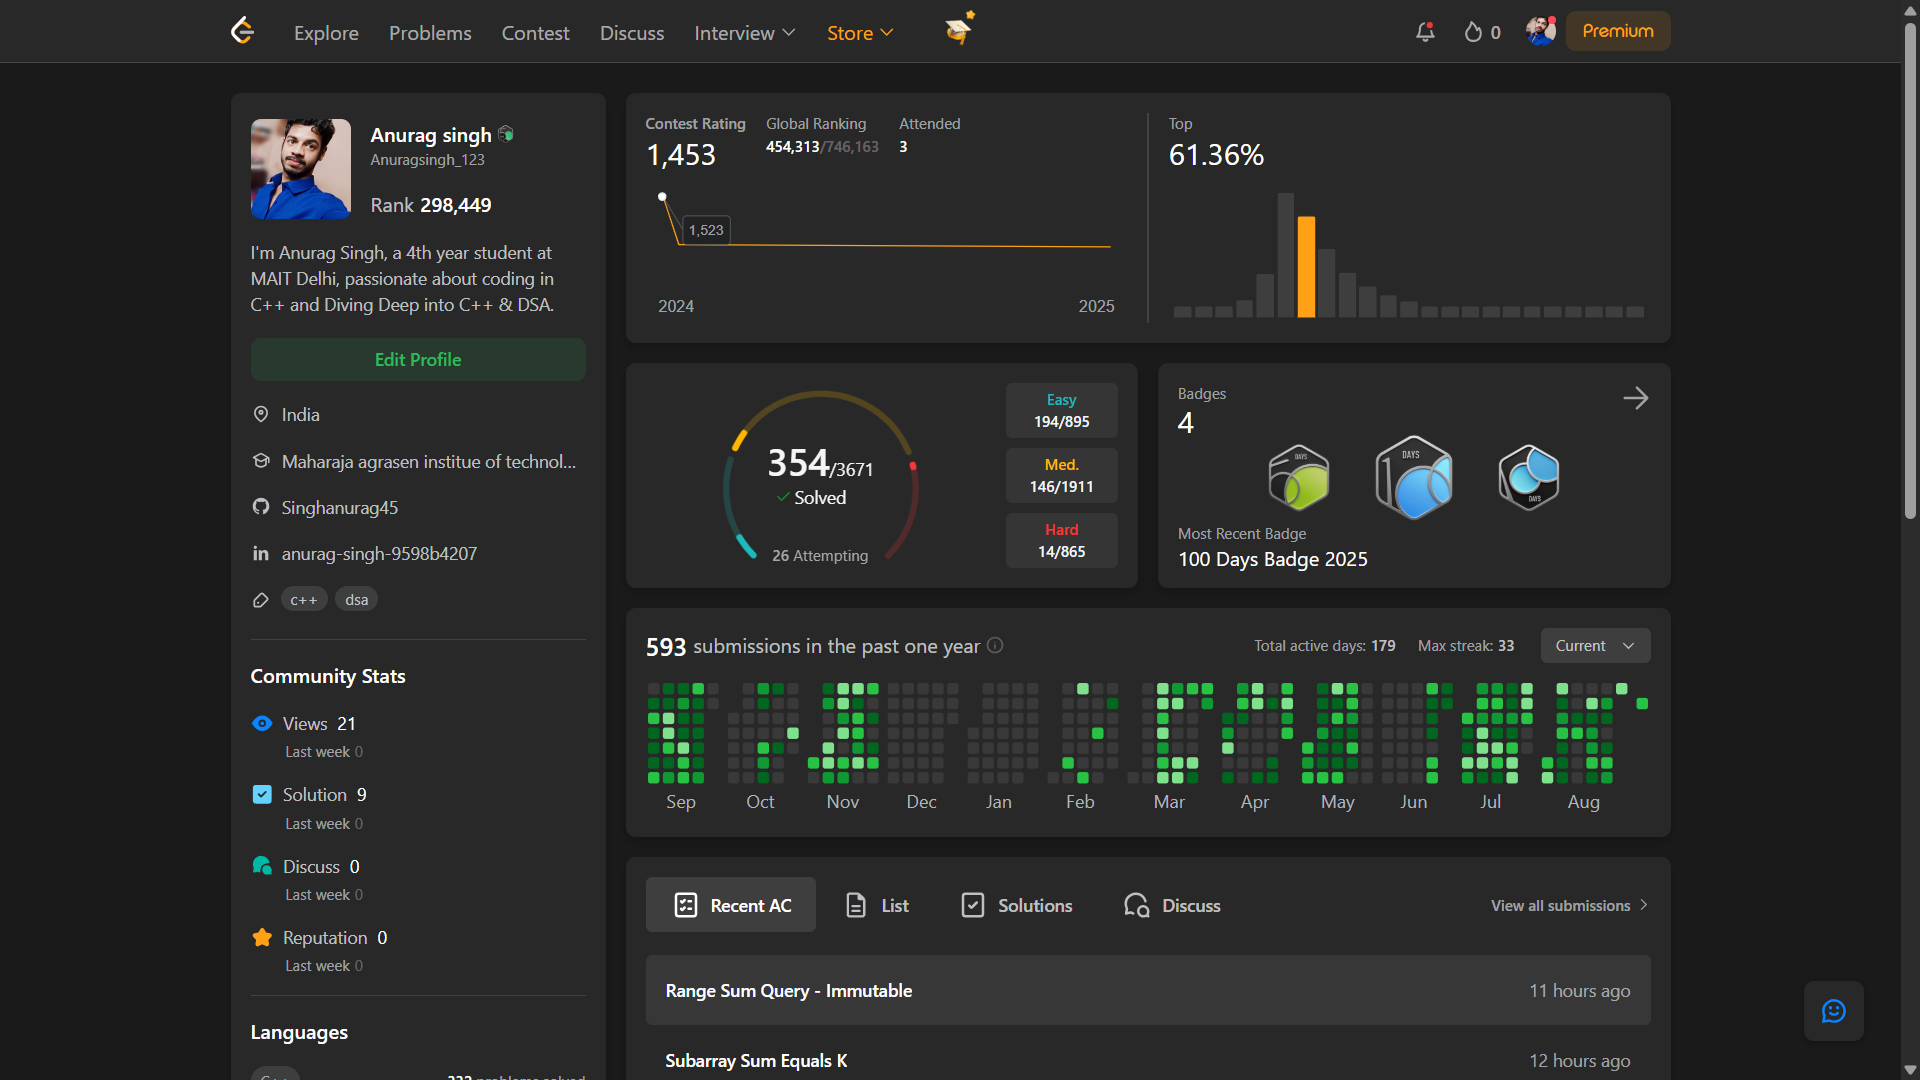
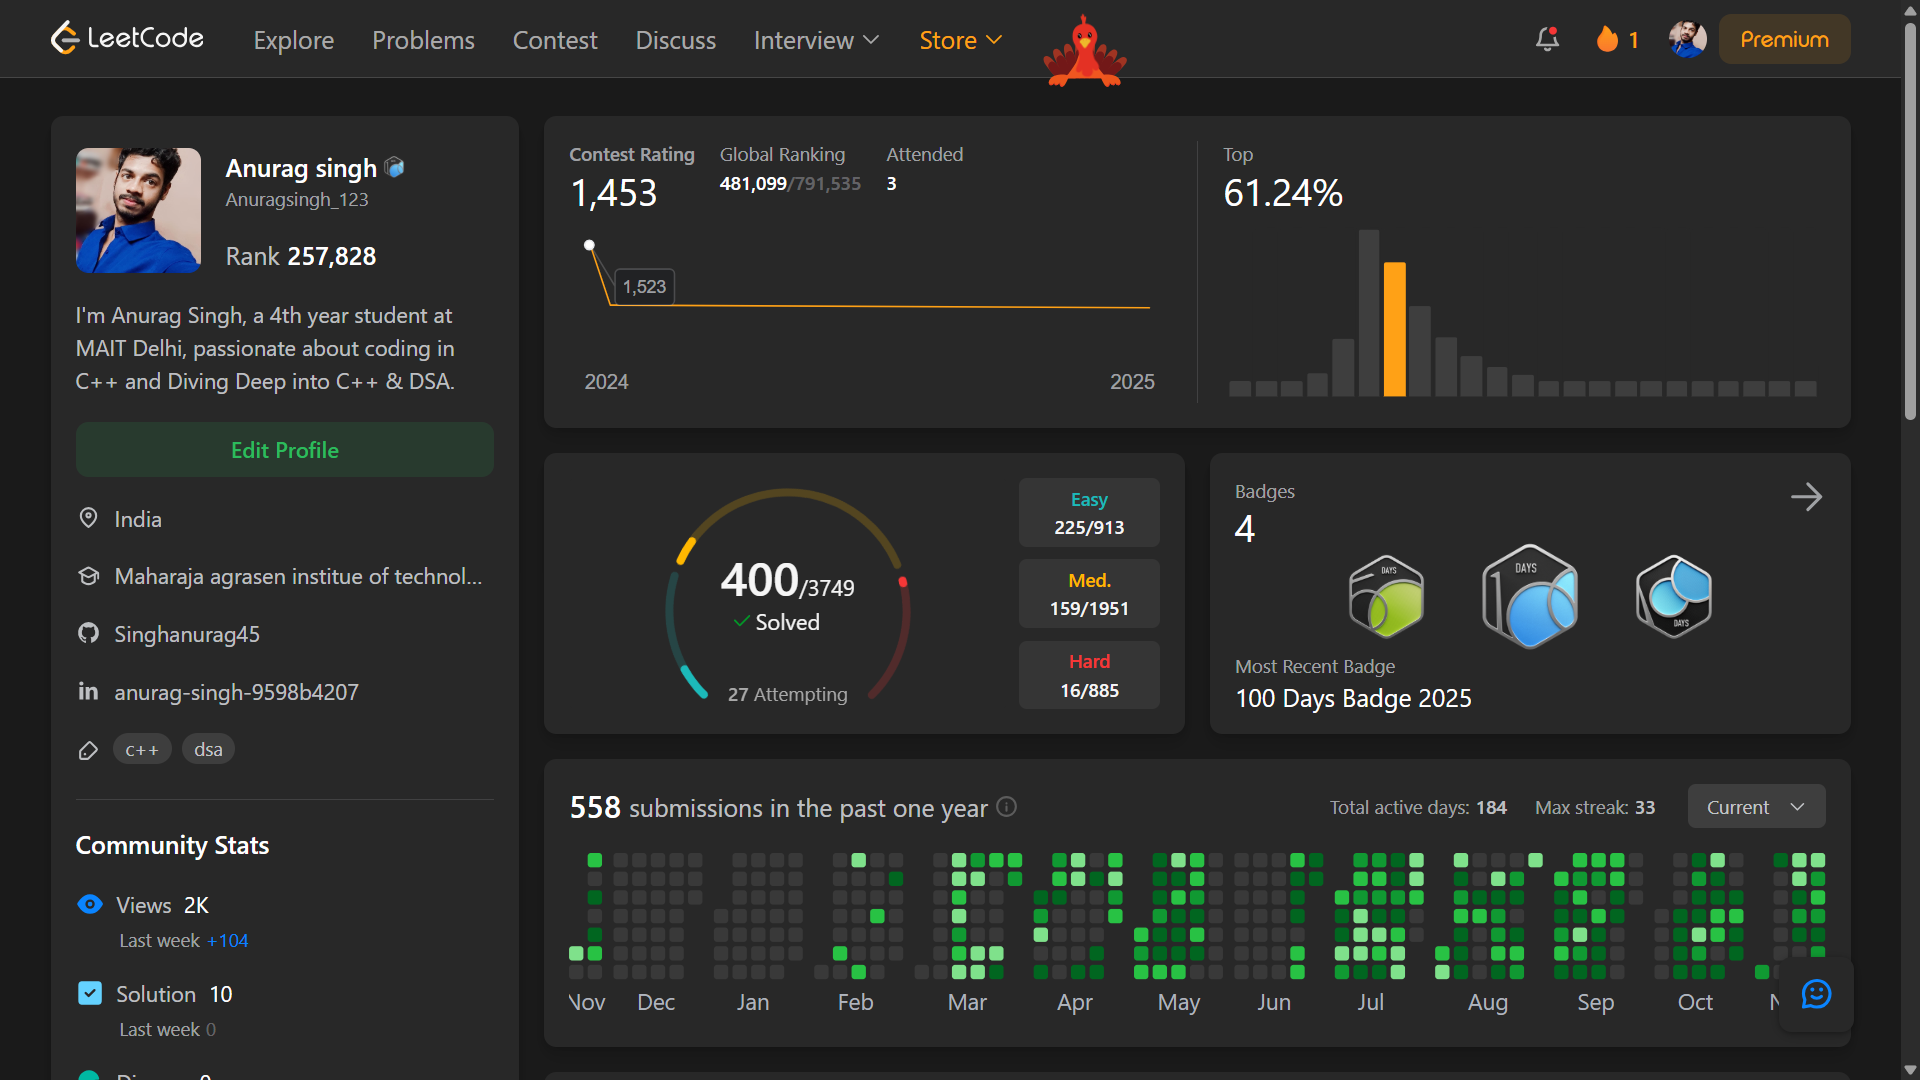
update leetcode stats and leetcode profile

diff --git a/src/constants/index.js b/src/constants/index.js
@@ -81,6 +81,7 @@ export const aboutSection = {
       "Object-Oriented Programming",
       "Software Engineering",
       "Artificial Intelligence",
+      "Machine Learning"
     ],
   },
 
@@ -200,15 +201,16 @@ export const leetCodeStats = {
   profilePic: leetCodeProfilePic,
   username: "Anurag singh",
   handle: "Anuragsingh_123",
-  rank: "277,899", 
+  rank: "257,828",
+
   solvedProblems: {
-    total: 372, 
-    easy: "205/695",
-    medium: "152/1911",
-    hard: "15/865",
-    totalAvailable: 3677,
+    total: 400,
+    easy: "225/913",
+    medium: "159/1951",
+    hard: "16/885",
+    totalAvailable: 3749,
   },
- 
+
   badges: [
     { id: 1, image: badge100, name: "100 Days Badge 2025" },
     { id: 2, image: badgeAnnual, name: "Annual Badge 2025" },
@@ -216,17 +218,17 @@ export const leetCodeStats = {
     { id: 4, image: badgeFourth, name: "Fourth Badge" },
   ],
 
-  submissionsPastYear: 600,
-  totalActiveDays: 180,
+  submissionsPastYear: 558,
+  totalActiveDays: 184,
   maxStreak: 33,
 };
 
 // UPDATED: Achievements and Certificates section from your resume
 export const achievements = [
   {
-    title: "Solved 450+ DSA Problems",
+    title: "Solved 500+ DSA Problems",
     description:
-      "Solved 350+ problems on LeetCode and 100+ on GeeksforGeeks, strengthening problem-solving skills and proficiency in core computer science concepts.",
+      "Solved 400+ problems on LeetCode and 100+ on GeeksforGeeks, strengthening problem-solving skills and proficiency in core computer science concepts.",
     link: "https://leetcode.com/Anuragsingh_123/", // Updated LeetCode profile link
   },
   {
